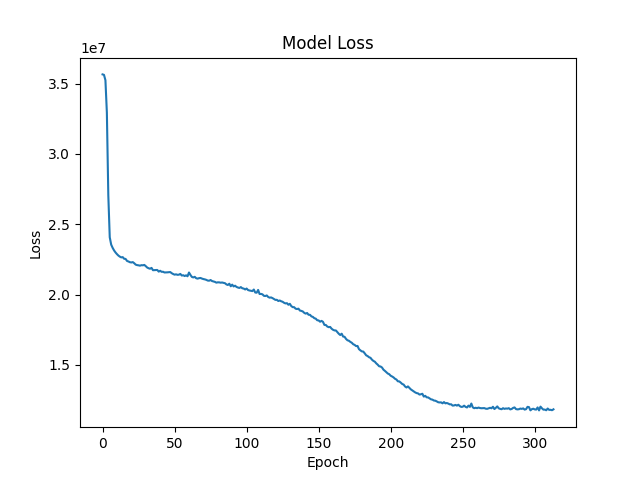
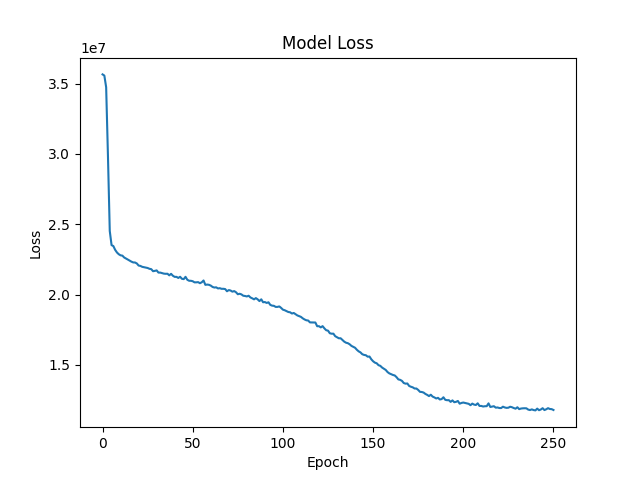
Я допилил саму нейронку, сделал сохранение и загрузку весов, так же сделал что бы можно было обрабатывать запросы в частном порядке в MainFiles.py

diff --git a/AIAppraiserAllFiles/AiDirectory/AiRefactor.py b/AIAppraiserAllFiles/AiDirectory/AiRefactor.py
@@ -1,43 +1,77 @@
+# pandas используется для работы с данными в формате таблиц (DataFrame).
+# Dense и Input из Keras используются для создания слоев нейронной сети.
+# Sequential из Keras используется для создания последовательной модели нейронной сети.
+# KFold из sklearn.model_selection используется для кросс-валидации.
+# StandardScaler из sklearn.preprocessing используется для нормализации данных.
+# matplotlib.pyplot используется для построения графиков.
+# scipy.stats используется для статистического анализа данных.
+# L2 из Keras добавляет L2 регуляризацию к слоям модели.
+# EarlyStopping из Keras используется для остановки обучения, если модель перестает улучшаться.
 import pandas as pd
 from keras.src.layers import Dense, Input
 from keras.src.models import Sequential
-from sklearn.model_selection import train_test_split, KFold
+from sklearn.model_selection import KFold
 from sklearn.preprocessing import StandardScaler
-from sklearn.preprocessing import MinMaxScaler
 import matplotlib.pyplot as plt
 import scipy.stats as stats
 from keras.src.regularizers import L2
 from keras.src.callbacks import EarlyStopping
-from tensorflow.python.framework.test_ops import kernel_label_required
-
-
+from keras import ops
+import keras
+import os
+import joblib
+#Определяет класс AI_Creait, который будет содержать методы для работы с данными и моделью.
 class AI_Creait():
-    def __init__(self):
+
+    # Конструктор загружает два CSV файла в DataFrame: df_training для обучения модели и df_check для проверки.
+    def __init__(self, model_path=''):
         self.df_training = pd.read_csv('/home/I/SchoolProject/AIAppraiserAllFiles/ExecutableDirectory/first_DFFP.csv')
         self.df_check = pd.read_csv('/home/I/SchoolProject/AIAppraiserAllFiles/ExecutableDirectory/last_DFFP.csv')
+        self.model = None
+        self.scaler = None
+        self.scaler_path = model_path.replace('.keras', '_scaler.pkl')
 
+        if os.path.exists(model_path) and os.path.exists(model_path.replace('.keras', '_scaler.pkl')):
+            print("Loading existing model and scaler...")
+            self.model = keras.models.load_model(model_path)
+            self.scaler = joblib.load(self.scaler_path)
+        else:
+            print("Model or scaler not found. Training new model...")
+
+    # Разделяет данные на признаки X (столбцы Cup и Hero) и целевую переменную y (столбец Price).
     def df_division(self, df):
         X = df[['Cup', 'Hero']]
         y = df['Price']
         return X, y
 
-    def train_model_with_kfold(self, n_splits=16):
+    # n_splits=16: Указывает количество фолдов для кросс-валидации.
+    def train_model_with_kfold(self, n_splits=30):
+        if self.model is not None and self.scaler is not None:
+            print("Model and scaler already loaded. Skipping training.")
+            return
+
         print("Starting K-Fold training...")
         X, y = self.df_division(self.df_training)
-        kf = KFold(n_splits=n_splits, shuffle=True, random_state=42)
+        kf = (KFold                                 # KFold делит данные на n_splits частей для кросс-валидации.
+              (n_splits=n_splits, shuffle=True,     # shuffle=True: Перемешивает данные перед разделением.
+               random_state=42))                    # random_state=42: Фиксирует случайное состояние для воспроизводимости.
         fold_losses = []
 
+        # Перебирает каждый фолд, разделяя данные на обучающую и тестовую выборки.
         for fold, (train_index, test_index) in enumerate(kf.split(X), 1):
             print(f"Training fold {fold}...")
             X_train, X_test = X.iloc[train_index], X.iloc[test_index]
             y_train, y_test = y.iloc[train_index], y.iloc[test_index]
 
-            # Нормализация данных
+            # StandardScaler нормализует данные, чтобы они имели среднее значение 0 и стандартное отклонение 1.
             self.scaler = StandardScaler()
             X_train_scaled = self.scaler.fit_transform(X_train)
             X_test_scaled = self.scaler.transform(X_test)
 
-            # Создание модели
+            # Создает последовательную модель с несколькими полносвязными слоями.
+            # Input(shape=(X_train_scaled.shape[1],)): Определяет входной слой с количеством признаков, равным количеству столбцов в X_train_scaled.
+            # Dense: Полносвязный слой с указанным количеством нейронов и функцией активации relu.
+            # kernel_regularizer=L2(0.01): Добавляет L2 регуляризацию с коэффициентом 0.01 для предотвращения переобучения.
             self.model = Sequential([
                 Input(shape=(X_train_scaled.shape[1],)),
                 Dense(64, activation='relu', kernel_regularizer=L2(0.01)),
@@ -48,23 +82,29 @@ class AI_Creait():
                 Dense(1)
             ])
 
-            # Компиляция модели
+            # optimizer='adam': Использует оптимизатор Adam для обучения.
+            # loss='mean_squared_error': Использует среднеквадратичную ошибку в качестве функции потерь.
+            # EarlyStopping: Останавливает обучение, если функция потерь не улучшается в течение 10 эпох.
+            # epochs=2550: Количество эпох обучения.
+            # batch_size=32: Размер батча для обучения.
+            # verbose=1: Выводит прогресс обучения в консоль.
             self.model.compile(optimizer='adam', loss='mean_squared_error')
             early_stopping = EarlyStopping(monitor='loss', patience=10, restore_best_weights=True)
-            # Обучение модели
             self.history = self.model.fit(X_train_scaled, y_train, epochs=2550, batch_size=32, verbose=1, callbacks=[early_stopping])
 
-            # Оценка модели
+            # Оценивает модель на тестовых данных и сохраняет потери для каждого фолда.
             loss = self.model.evaluate(X_test_scaled, y_test, verbose=0)
             print(f"Fold {fold} loss: {loss}")
             fold_losses.append(loss)
 
-
+        # Вычисляет среднее значение потерь по всем фолдам.
+        # Сохраняет обученную модель в файл AIAppraiser.keras.
         average_loss = sum(fold_losses) / len(fold_losses)
         print(f'Average Loss across {n_splits} folds: {average_loss}')
-
         self.model.save('AIAppraiser.keras')
+        joblib.dump(self.scaler, 'AIAppraiser_scaler.pkl')
 
+        # Строит и сохраняет график потерь модели по эпохам.
         plt.plot(self.history.history['loss'])
         plt.title('Model Loss')
         plt.xlabel('Epoch')
@@ -72,14 +112,20 @@ class AI_Creait():
         plt.savefig(f'{n_splits}-model_loss.png')
         plt.close()
 
+
+    # Принимает значения cup и hero, нормализует их и возвращает предсказанное значение.
     def predict(self, cup, hero):
+        if self.scaler is None or self.model is None:
+            raise Exception("Model and scaler must be loaded or trained before prediction.")
         # Пример предсказания
         example_data = pd.DataFrame([[cup, hero]], columns=['Cup', 'Hero'])
         example_data_scaled = self.scaler.transform(example_data)
         predicted_value = self.model.predict(example_data_scaled)
         return predicted_value[0][0]
 
-    def Q_Q_plot(self, data):#провека нормального расспределения данных
+
+    # Строит и сохраняет гистограмму и Q-Q Plot для проверки нормальности распределения данных.
+    def Q_Q_plot(self, data):
         # Гистограмма
         plt.hist(data, bins=10, alpha=0.6, color='g')
         plt.title(f'{data.name}-Histogram')
@@ -94,11 +140,12 @@ class AI_Creait():
         plt.show()
         plt.close()
 
+# Создает экземпляр класса AI_Creait и обучает модель.
 if __name__ == '__main__':
-    model = AI_Creait()
+    model = AI_Creait('AIAppraiser.keras')
     model.train_model_with_kfold()
 
-    # Итерируемся по каждой строке в DataFrame df_check
+    # Итерируется по каждой строке в df_check, делает предсказание и выводит его.
     for index, row in model.df_check.iterrows():
         cup = row['Cup']
         hero = row['Hero']

diff --git a/AIAppraiserAllFiles/MainFiles.py b/AIAppraiserAllFiles/MainFiles.py
@@ -1,15 +1,16 @@
-from selenium import webdriver
-from selenium.webdriver.common.by import By
-import time
+from AiDirectory import AiRefactor
 
-
-driver = webdriver.Edge()
-
-driver.get('https://bing.com')
-
-element = driver.find_element(By.ID, 'sb_form_q')
-element.send_keys('WebDriver')
-element.submit()
-
-time.sleep(5)
-driver.quit()
+if __name__ == '__main__':
+    Ai = AiRefactor.AI_Creait('/home/I/SchoolProject/AIAppraiserAllFiles/AiDirectory/AIAppraiser.keras')
+    Ai.train_model_with_kfold()
+    while True:
+        print('Для того что бы остановить программу введите два раза 0')
+        try:
+            cup, hero = map(int, input('Введите сначала количество кубков аккаунта, а затем количество персонажей.\n').split(', '))
+        except:
+            print('Что-то пошло не так! Попробуйте еще раз!')
+            continue
+        prediction = Ai.predict(cup, hero)
+        print(f'Предсказание для Cup: {cup}, Hero: {hero} - {prediction}')
+        if cup == 0:
+            break
